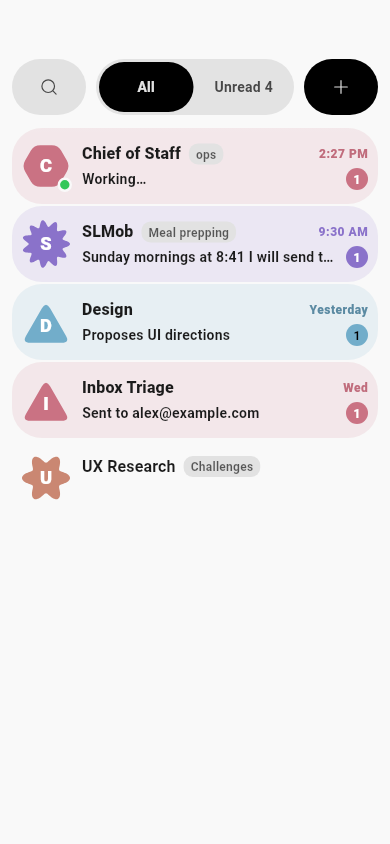
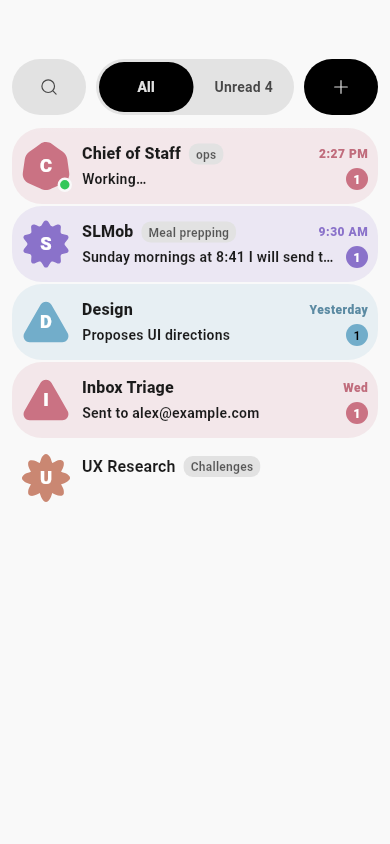
feat(theme): M3E press shape morph on all buttons, current M3 progress and slider
- Filled, elevated, outlined and text buttons are stadium at rest and take
  the 12 px corner while pressed; icon buttons go circle -> 8 px corner.
  Material animates the change, so every themed button morphs on press.
- Progress indicators and sliders opt out of the 2023 look (track gap,
  rounded ends, stop dot), the base M3 Expressive builds on.
- Preview goldens updated for the official MaterialShapes agent faces.

diff --git a/lib/constants.dart b/lib/constants.dart
@@ -59,6 +59,7 @@ const String kChatFontFamilyInter = 'inter';
 const String kChatFontFamilyArimo = 'arimo';
 const String kChatFontFamilyMerriweather = 'merriweather';
 const String kChatFontFamilyJetBrainsMono = 'jetbrains_mono';
+
 /// Inter is the default for chat and UI: open shapes, a tall x-height and
 /// full Latin-Ext (ä ö ü ß ẞ). Mono is selectable but never a default.
 const String kDefaultChatFontFamily = kChatFontFamilyInter;
@@ -120,6 +121,34 @@ const EdgeInsets _kButtonPadding = EdgeInsets.symmetric(
   horizontal: 20,
   vertical: 14,
 );
+
+/// Material 3 Expressive button shape: round at rest, and squarer while the
+/// button is held (m3.material.io/components/buttons, "shape morph"). A 48 px
+/// button sits between the spec's small (40, pressed 8) and medium (56,
+/// pressed 12) sizes and takes the medium corner. [Material] animates the
+/// change, so every themed button morphs on press.
+final WidgetStateProperty<OutlinedBorder> _kM3eButtonShape =
+    WidgetStateProperty.resolveWith((Set<WidgetState> states) {
+      if (states.contains(WidgetState.pressed)) {
+        return const RoundedRectangleBorder(
+          borderRadius: BorderRadius.all(Radius.circular(12)),
+        );
+      }
+      return const StadiumBorder();
+    });
+
+/// The same morph for a small (40 px) icon button: circle at rest, corner 8
+/// while held, as in the spec's icon button table.
+final WidgetStateProperty<OutlinedBorder> _kM3eIconButtonShape =
+    WidgetStateProperty.resolveWith((Set<WidgetState> states) {
+      if (states.contains(WidgetState.pressed)) {
+        return const RoundedRectangleBorder(
+          borderRadius: BorderRadius.all(Radius.circular(8)),
+        );
+      }
+      return const CircleBorder();
+    });
+
 const Size _kButtonMinSize = Size(0, 48);
 const TextStyle _kButtonTextStyle = TextStyle(
   fontSize: 14,
@@ -398,48 +427,42 @@ ThemeData buildAppTheme({
         foregroundColor: colorScheme.onPrimary,
         disabledBackgroundColor: iconFg.withValues(alpha: 0.12),
         disabledForegroundColor: iconFg.withValues(alpha: 0.38),
-        shape: RoundedRectangleBorder(borderRadius: kBorderRadiusPill),
         padding: _kButtonPadding,
         minimumSize: _kButtonMinSize,
         textStyle: _kButtonTextStyle,
         elevation: 0,
-      ),
+      ).copyWith(shape: _kM3eButtonShape),
     ),
     elevatedButtonTheme: ElevatedButtonThemeData(
       style: ElevatedButton.styleFrom(
         backgroundColor: surfaceHigh,
         foregroundColor: iconFg,
-        shape: RoundedRectangleBorder(borderRadius: kBorderRadiusPill),
         padding: _kButtonPadding,
         minimumSize: _kButtonMinSize,
         textStyle: _kButtonTextStyle,
         elevation: 0,
-      ),
+      ).copyWith(shape: _kM3eButtonShape),
     ),
     outlinedButtonTheme: OutlinedButtonThemeData(
       style: OutlinedButton.styleFrom(
         foregroundColor: iconFg,
         side: BorderSide(color: outline),
-        shape: RoundedRectangleBorder(borderRadius: kBorderRadiusPill),
         padding: _kButtonPadding,
         minimumSize: _kButtonMinSize,
         textStyle: _kButtonTextStyle,
-      ),
+      ).copyWith(shape: _kM3eButtonShape),
     ),
     textButtonTheme: TextButtonThemeData(
       style: TextButton.styleFrom(
         foregroundColor: accentInk,
-        shape: RoundedRectangleBorder(borderRadius: kBorderRadiusPill),
         padding: const EdgeInsets.symmetric(horizontal: 16, vertical: 12),
         minimumSize: const Size(0, 44),
         textStyle: _kButtonTextStyle,
-      ),
+      ).copyWith(shape: _kM3eButtonShape),
     ),
     iconButtonTheme: IconButtonThemeData(
-      style: IconButton.styleFrom(
-        foregroundColor: iconFg,
-        shape: const CircleBorder(),
-      ),
+      style: IconButton.styleFrom(foregroundColor: iconFg)
+          .copyWith(shape: _kM3eIconButtonShape),
     ),
     segmentedButtonTheme: SegmentedButtonThemeData(
       style: SegmentedButton.styleFrom(
@@ -458,6 +481,16 @@ ThemeData buildAppTheme({
       shape: RoundedRectangleBorder(borderRadius: kBorderRadiusPill),
       labelStyle: TextStyle(color: iconFg, fontSize: 13),
     ),
+
+    // Progress and sliders on the current Material 3 spec (not the 2023
+    // one): rounded track ends, a gap between active and inactive track,
+    // the stop dot at the end, the tall slider handle. M3 Expressive builds
+    // on this geometry (m3.material.io/components/progress-indicators,
+    // /sliders).
+    // ignore: deprecated_member_use
+    progressIndicatorTheme: const ProgressIndicatorThemeData(year2023: false),
+    // ignore: deprecated_member_use
+    sliderTheme: const SliderThemeData(year2023: false),
 
     // ── Menus & dialogs ───────────────────────────────────────────────
     // The vertical menu padding matters: without it a highlighted first
@@ -504,7 +537,9 @@ ThemeData buildAppTheme({
       backgroundColor: surfaceLow,
       elevation: 0,
       shape: const RoundedRectangleBorder(
-        borderRadius: BorderRadius.vertical(top: Radius.circular(kRadiusDialog)),
+        borderRadius: BorderRadius.vertical(
+          top: Radius.circular(kRadiusDialog),
+        ),
       ),
     ),
     tooltipTheme: TooltipThemeData(
